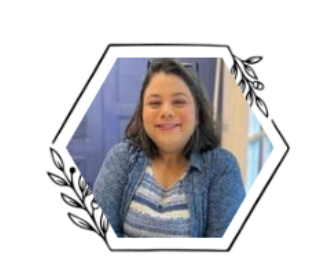
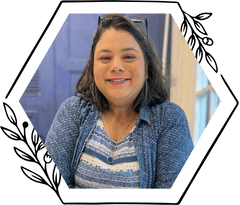
fix

diff --git a/src/pages/Ticp.jsx b/src/pages/Ticp.jsx
@@ -14,6 +14,9 @@ const trainer3 = `${import.meta.env.VITE_PUBLIC_URL}/home-images/trainer3.png`;
 const trainer4 = `${import.meta.env.VITE_PUBLIC_URL}/home-images/trainer4.png`;
 // const trainer5 = `${import.meta.env.VITE_PUBLIC_URL}/home-images/trainer5.png`;
 import trainer5 from '../imgs/home-images/trainer5.png'
+
+import graidingImg from '../imgs/home-images/graiding.png'
+
 const trainer6 = `${import.meta.env.VITE_PUBLIC_URL}/home-images/trainer6.png`;
 
 const banner = `${import.meta.env.VITE_PUBLIC_URL}/ticp-images/ticp5.png`;
@@ -23,6 +26,8 @@ import Faq from "../components/Faq";
 import Model from "../components/Model";
 
 import groupImag from '../imgs/home-images/ticp.png'
+import CurriculumTable from "../components/CurriculumTable";
+import TrainingSchedule from '../components/TrainingSchedule';
 const Ticp = () => {
   const [team] = useState([
     {
@@ -105,12 +110,12 @@ const Ticp = () => {
         </div>
       </div>
 
-      <div className='container w-full sm:max-w-7xl  lg:max-w-7xl  m-auto lg:bg-white pt-2 border'>
-        <div className='about-us text-xl border border-red-300'>
+      <div className='container w-full sm:max-w-7xl  lg:max-w-7xl  m-auto lg:bg-white pt-2'>
+        <div className='about-us text-xl'>
           <h2 className='title text-4xl font-bold pl-4 mt-10 lg:mt-0'>
             About us
           </h2>
-          <p className='mt-2 leading-8 text-justify lg:text-wrap w-[95%] lg:w-full border'>
+          <p className='mt-2 leading-8 text-justify lg:text-wrap w-[95%] m-auto lg:w-full'>
             Trauma is the most unaddressed and unseen epidemic in today’s time.
             Seven out of ten children in India experience some form of adversity
             at an early age. If left unaddressed, these painful experiences can
@@ -118,7 +123,7 @@ const Ticp = () => {
             mental, emotional, and physical wellbeing.
           </p>
 
-          <p className='leading-8 text-justify w-[95%] lg:w-full'>
+          <p className='leading-8 text-justify w-[95%] m-auto lg:w-full'>
             I Am Wellbeing (Nairatmya Foundation) is a mental health not-for-
             profit organization dedicated to supporting such young lives
             struggling with adverse childhood experiences and building an
@@ -179,7 +184,7 @@ const Ticp = () => {
           <h2 className='title text-4xl font-bold mb-1 p-4'>
             Course Activities & Duration
           </h2>
-          <p className='p-6 pb-0 pt-0 leading-8 text-justify w-[95%] lg:w-full'>
+          <p className='p-6 pb-0 pt-0 leading-8 text-justify w-[98%] lg:w-full'>
             {/* The course will encompass various activities like learning sessions,
             group discussions, assignments, case conceptualisation, roleplays &
             supervision. There are a total of <b>six modules</b> to be covered
@@ -246,20 +251,16 @@ const Ticp = () => {
             <LazyLoadImage
               src='https://www.iamwellbeing.org/imgs/ticp4.png'
               alt='teammate'
-              className='w-[500px] mt-5 lg:mt-0'
+              className='w-[500px]  lg:mt-0'
               effect='blur' // Blur effect while loading
               placeholder={<BlurryImages imgUrl='Home/ticimage1-small.jpg' />}
             />
           </div>
 
+          <CurriculumTable/>
+          {/* <TrainingSchedule/> */}
           <LazyLoadImage
-            src={ticp2Img}
-            alt='curriculum'
-            effect='blur' // Blur effect while loading
-            placeholder={<BlurryImages imgUrl='ticp-images/2-small.png' />}
-          />
-
-          <LazyLoadImage
+            className="w-full border"
             src={ticp3Img}
             alt='table-img'
             effect='blur' // Blur effect while loading
@@ -386,12 +387,15 @@ const Ticp = () => {
             Criteria for grading assignments
           </h1>
 
+         {/* <div className='text-center w-full flex items-center justify-center border-4 border-red-300'> */}
           <LazyLoadImage
+            // className="w-full m-auto text-center border-4 graiding-img"
             src={ticp4Img}
             alt='ticp4Img'
             effect='blur' // Blur effect while loading
             placeholder={<BlurryImages imgUrl='ticp-images/2aa-small.png' />}
           />
+         {/* </div> */}
           <h1 className='title text-3xl font-bold mb-3'>Eligibility</h1>
           <ul className=' list-disc ml-6 mt-4 text-xl'>
             <li className='mt-4'>
@@ -490,18 +494,19 @@ const Ticp = () => {
 
         <div className='know-your-trainner pl-2 mt-5'>
           <h1 className='text-4xl font-bold'>Know Your Trainers</h1>
-          <div className='trainners grid items-center justify-center sm:grid-cols-2 lg:grid-cols-3 gap-5 bg-white max-w-3xl m-auto mt-10'>
-            {team.map((trainer) => {
+          <div className='trainners grid  items-center justify-center sm:grid-cols-2 lg:grid-cols-3 gap-5 bg-white max-w-3xl m-auto mt-10'>
+            {team.map((trainer , index) => {
               return (
                 <div
                   key={trainer.name}
-                  className='trainner-card cursor-pointer '
+                  className='trainner-card cursor-pointer flex item-center justify-center flex-col '
                   onClick={() => {
                     setIsOpen(true);
                     setSelectedTeamMember(trainer);
                   }}
                 >
                   <LazyLoadImage
+                    className={`${index == 4 ? 'w-[175px]' : 'w-[200px]' } h-[150px] m-auto object-cover`}
                     src={trainer.imgSrc}
                     alt='trainner-img'
                     effect='blur' // Blur effect while loading

diff --git a/src/components/TrainingSchedule.jsx b/src/components/TrainingSchedule.jsx
@@ -1,0 +1,146 @@
+import React from "react";
+
+const TrainingSchedule = () => {
+  const data = [
+    {
+      week: "Week 1",
+      title: "Basics of trauma",
+      topics: [
+        "Understanding trauma through the decades",
+        "Trauma perspectives across the globe",
+        "Adverse Childhood Experiences and its impact",
+      ],
+      noOfSessions: 2,
+      totalHours: 4,
+      tentativeDate: "15th June",
+      timingAndDay: "10 am to 12 pm; Sunday",
+      assignment: 1,
+    },
+    {
+      week: "Week 2",
+      title: "Basics of trauma",
+      topics: [
+        "Neuroscience of trauma and levels of safety",
+        "Anatomy of survival",
+        "Brain-body connection",
+        "Levels of safety",
+        "Imprint of trauma memories",
+      ],
+      noOfSessions: 2,
+      totalHours: 4,
+      tentativeDate: "21st June",
+      timingAndDay: "10 am to 12 pm; Saturday",
+      assignment: 1,
+    },
+    {
+      week: "Week 3",
+      title: "Basics of trauma",
+      topics: ["Trauma-informed care", "Goals and Principles"],
+      noOfSessions: 1,
+      totalHours: 2,
+      tentativeDate: "28th June",
+      timingAndDay: "10 am to 12 pm; Saturday",
+      assignment: 1,
+    },
+    {
+      week: "Week 4",
+      title: "Basics of trauma",
+      topics: [
+        "Trauma-informed counselling skills",
+        "Adapting the trauma lens in practice",
+        "Understanding client-therapist relationship",
+        "Practical applications",
+      ],
+      noOfSessions: 2,
+      totalHours: 4,
+      tentativeDate: "5th July",
+      timingAndDay: "10 am to 12 pm; Saturday",
+      assignment: 1,
+    },
+    {
+      week: "Week 5",
+      title: "Basics of trauma",
+      topics: [
+        "Evidence based tools for processing trauma",
+        "Orientation to Arts-Based Therapy (ABT)",
+        "Introduction to somatic practices",
+      ],
+      noOfSessions: 5,
+      totalHours: 10,
+      tentativeDate: "12th July",
+      timingAndDay: "10 am to 12 pm; Saturday",
+    },
+    {
+      week: "Week 6",
+      topics: [
+        "Basics of Emotional Freedom Tapping (EFT)",
+        "Mindfulness-based practices",
+        "Non-violent communication",
+      ],
+      noOfSessions: 5,
+      totalHours: 10,
+      tentativeDate: "19th July",
+      timingAndDay: "10 am to 12 pm; Saturday",
+      assignment: 1,
+    },
+    {
+      week: "Week 7",
+      topics: [
+        "Practical application and self care",
+        "Roleplays",
+        "Vicarious trauma and self care",
+      ],
+      noOfSessions: 3,
+      totalHours: 6,
+      tentativeDate: "2nd August",
+      timingAndDay: "10 am to 12 pm; Saturday",
+      assignment: 1,
+    },
+  ];
+
+  return (
+    <table className='bg-[#FFDE59] w-full text-center'>
+      <thead>
+        <tr>
+          <th>Week</th>
+          <th>Topics</th>
+          <th>No. of sessions</th>
+          <th>Total hours</th>
+          <th>Tentative Date</th>
+          <th>Timing and Day</th>
+          <th>Assignment</th>
+        </tr>
+      </thead>
+      <tbody>
+        {data.map((item, index) => (
+          <tr key={index}>
+            <td className='border-2 border-black'>{item.week}</td>
+            <td className='border-2 border-black'>
+              <ul className=''>
+                {item.topics.map((topic, topicIndex) => (
+                  <li className='' key={topicIndex}>
+                    {topic}
+                  </li>
+                ))}
+              </ul>
+            </td>
+            <td className='border-2 border-black'>{item.noOfSessions}</td>
+            <td className='border-2 border-black'>{item.totalHours}</td>
+            <td className='border-2 border-black'>{item.tentativeDate}</td>
+            <td className='border-2 border-black'>{item.timingAndDay}</td>
+            <td className='border-2 border-black'>{item.assignment}</td>
+          </tr>
+        ))}
+      </tbody>
+
+      <tfoot>
+      <tr>
+      <td colSpan="4" className="text-center border-2 bg-[#029390] text-white border-black">Closing Ceremony</td>
+      <td colSpan="3" className="text-center border-2 bg-[#029390] text-white border-black">December</td>
+      </tr>
+      </tfoot>
+    </table>
+  );
+};
+
+export default TrainingSchedule;

diff --git a/src/components/CurriculumTable.jsx b/src/components/CurriculumTable.jsx
@@ -1,0 +1,63 @@
+import React from 'react';
+
+const CurriculumTable = () => {
+  return (
+    <div className='bg-[#FFDE59] p-12'>
+      <div>
+        <h1 className='text-3xl font-semibold uppercase'>Curriculum</h1>
+        <p className='text-xl lg:text-2xl mt-3 text-justify'>
+          Level 1 of the Course includes 6 modules. Below is the structure of
+          the requirements of the Certificate Course in Trauma-Informed Care
+          Practices
+        </p>
+      </div>
+      <h2 className='text-center text-3xl mt-5 mb-5 font-bold'>Course Structure</h2>
+      <table className='w-full table-auto'>
+        <thead>
+          <tr className=''>
+            <th className='px-4 py-2 text-left border-2 border-black'>Category</th>
+            <th className='px-4 py-2 text-left border-2 border-black'>Hours</th>
+          </tr>
+        </thead>
+        <tbody>
+          <tr className='border-b border-black'>
+            <td className='px-4 border-2 border-black py-2 text-left'>
+              Theory
+            </td>
+            <td className='px-4 border-2 border-black py-2 text-left'>30</td>
+          </tr>
+          <tr className='border-b border-black'>
+            <td className='px-4 border-2 border-black py-2 text-left'>
+              Assignments
+            </td>
+            <td className='px-4 border-2 border-black py-2 text-left'>9</td>
+          </tr>
+          <tr className='border-b border-black'>
+            <td className='px-4 border-2 border-black py-2 text-left'>
+              Case submissions
+            </td>
+            <td className='px-4 border-2 border-black py-2 text-left'>10</td>
+          </tr>
+          <tr className='border-b border-black'>
+            <td className='px-4 border-2 border-black py-2 text-left'>
+              Supervision
+            </td>
+            <td className='px-4 border-2 border-black py-2 text-left'>12</td>
+          </tr>
+          <tr className='border-b border-black'>
+            <td className='px-4 border-2 border-black py-2 text-left'>Viva</td>
+            <td className='px-4 border-2 border-black py-2 text-left'>1</td>
+          </tr>
+          <tr>
+            <td className='px-4 border-2 border-black py-2 text-left'>
+              Total hours
+            </td>
+            <td className='px-4 border-2 border-black py-2 text-left'>62</td>
+          </tr>
+        </tbody>
+      </table>
+    </div>
+  );
+};
+
+export default CurriculumTable;

diff --git a/src/index.css b/src/index.css
@@ -153,6 +153,9 @@ color:#6c757d
 
 /* tic page */
 
+.graiding-img{
+    height:150px !important;
+}
 
 
 /* home page media query */
